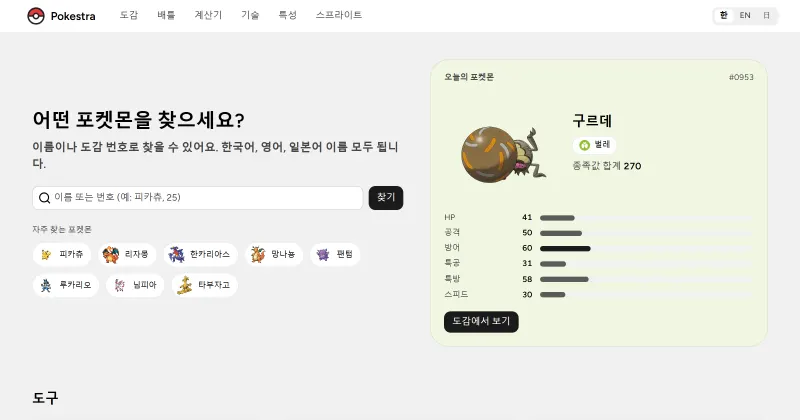
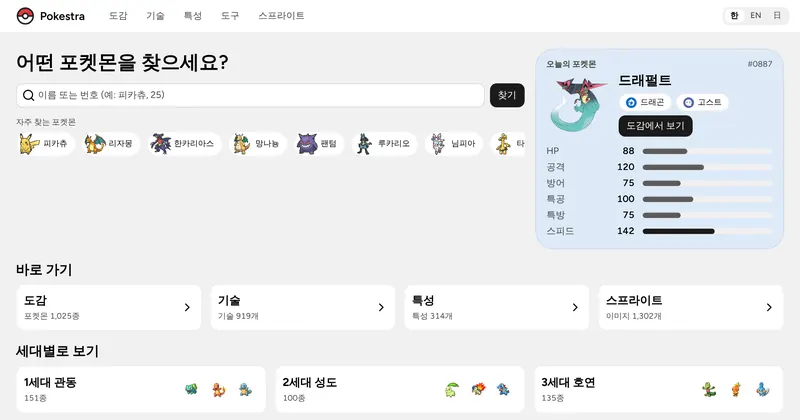
포트폴리오: Pokestra 미리보기를 지금 화면으로, Pokestra와 pokebattle-engine 사이 연결 정리
- Pokestra 대표 이미지(미리보기)를 도감 전용인 지금 화면으로 다시 찍고 WebP 썸네일도 새로 만들었다.
- Pokestra는 더 이상 엔진을 쓰지 않으므로 두 프로젝트의 '연결된 프로젝트' 표시와 서로를 엮는 설명을 지웠다.

Claude-Session: https://claude.ai/code/session_01LWa7NjJJtbQKJ3JC75DQKW

diff --git a/content/projects/pokestra.md b/content/projects/pokestra.md
@@ -4,11 +4,10 @@ kind: personal
 order: 8
 tags: [React, Vite, Tailwind CSS, Astryx, TanStack Query, Zustand, Vitest, 다국어]
 summary: 한·영·일 3개 언어 포켓몬 도감. 포켓몬·기술·특성·도구를 네트워크 기다림 없이 찾고, 세대를 고르면 그 시절 모습과 능력치를 보여 준다.
-highlight: 1,000개 넘는 데이터를 기다림 없이 찾게 하고, 배틀과 계산기는 엔진의 데모로 넘겨 도감 하나에 집중했다.
+highlight: 1,000개 넘는 데이터를 기다림 없이 찾게 하고, 배틀과 계산기는 덜어 내 도감 하나에 집중했다.
 cover: img/projects/pokestra.png
 link: https://github.com/2rangs/Pokestra
 demo: /portfolio/pokestra/
-links: [pokebattle-engine]
 ---
 
 ## 한눈에
@@ -22,7 +21,6 @@ links: [pokebattle-engine]
 | 세대 | 상세 화면에서 세대를 고르면 그 세대의 스프라이트·타입·특성·종족값과 울음소리 |
 | 규모 | 약 9,100줄(TS/TSX, 다국어 문구 포함, 테스트 제외) + 테스트 파일 10개 |
 | 기술 | React, Vite, Tailwind CSS v4, Astryx 디자인 시스템(커스텀 `pokestra` 테마), TanStack Query, Zustand, Vitest |
-| 배틀 | Pokestra에서는 빼고, [pokebattle-engine](/projects/pokebattle-engine/)의 [배틀 데모](https://2rangs.github.io/portfolio/pokebattle-engine/#/battle)로 옮김 |
 
 ## 두 번 만든 프로젝트
 
@@ -35,7 +33,7 @@ links: [pokebattle-engine]
 - 디자인 시스템 위에서 UI 재구성
 - 세대 타임라인, 도구·나무열매, 촘촘한 배치로 도감 자체를 깊게
 
-두 번째 버전에는 한동안 직접 만든 엔진으로 돌리는 배틀 데모와 데미지 계산기도 들어 있었습니다. 지금은 둘 다 엔진 쪽으로 옮기고, Pokestra는 도감만 남겼습니다(아래 "도감에 집중하기로 한 이유").
+두 번째 버전에는 한동안 배틀 데모와 데미지 계산기도 들어 있었습니다. 지금은 둘 다 빼고 도감만 남겼습니다(아래 "도감에 집중하기로 한 이유").
 
 ## 화면 구성
 
@@ -53,14 +51,9 @@ links: [pokebattle-engine]
 
 ## 도감에 집중하기로 한 이유
 
-처음에는 팀 빌더와 배틀 화면을, 그다음에는 엔진이 CPU끼리 배틀을 돌리는 데모와 데미지 계산기를 Pokestra에 넣었습니다. 동작은 했지만 도감 앱 안에 반쯤 만든 게임과 계산기가 들어 있는 모양이었고, 엔진은 도감의 한 메뉴 크기로만 자신을 보여 줄 수 있었습니다.
+처음에는 팀 빌더와 배틀 화면을, 그다음에는 CPU끼리 배틀을 돌리는 데모와 데미지 계산기를 Pokestra에 넣었습니다. 동작은 했지만 도감 앱 안에 반쯤 만든 게임과 계산기가 들어 있는 모양이었습니다.
 
-그래서 역할을 나눴습니다.
-
-- **Pokestra는 도감만 합니다.** 배틀 시뮬레이터, 배틀 엔진 데모, 데미지 계산기를 지우고 엔진 의존성도 뺐습니다. 실능치 패널처럼 엔진을 빌려 쓰던 곳은 로컬 데이터와 순수 함수로 다시 만들었습니다.
-- **배틀과 계산은 엔진이 직접 보여 줍니다.** [pokebattle-engine](/projects/pokebattle-engine/) 문서 사이트의 [배틀 데모](https://2rangs.github.io/portfolio/pokebattle-engine/#/battle)가 그 자리를 맡습니다. 실제 게임처럼 움직이는 스프라이트와 실제 배틀 배경을 쓰는 배틀 화면, 손가락흔들기 모드, 같은 배틀을 다시 보는 리플레이 링크를 지원하며, 지금 마무리하고 있습니다.
-
-덜어 내고 나니 Pokestra는 "찾고 비교하는 화면"에, 엔진은 "배틀을 돌리는 화면"에 각자 집중할 수 있게 됐습니다.
+그래서 배틀 시뮬레이터, 배틀 데모, 데미지 계산기를 모두 지우고 외부 배틀 엔진 의존성도 뺐습니다. 실능치 패널처럼 그 엔진을 빌려 쓰던 곳은 로컬 데이터와 순수 함수로 다시 만들었습니다. 덜어 내고 나니 Pokestra는 "찾고 비교하는 화면" 하나에 집중할 수 있게 됐습니다.
 
 ## 구조
 
@@ -144,9 +137,9 @@ export function norm(s: string) {
 - 입력은 `useDeferredValue`로 처리해, 타이핑은 즉시 반응하고 목록 갱신은 그 뒤를 따라옵니다.
 - 이름 정렬은 언어별 `Intl.Collator`를 하나씩만 만들어 재사용합니다.
 
-### 5. 엔진 없이 계산하는 실능치
+### 5. 로컬 데이터로 계산하는 실능치
 
-실능치 패널(Lv50/Lv100 최소·무보정·최대)은 원래 엔진의 계산 함수를 빌려 썼습니다. 엔진을 빼면서 표준 공식을 순수 함수로 옮기고, 알려진 값으로 단위 테스트를 붙였습니다.
+실능치 패널(Lv50/Lv100 최소·무보정·최대)은 처음에 외부 배틀 엔진의 계산 함수를 빌려 썼습니다. 그 의존성을 빼면서 표준 공식을 순수 함수로 옮기고, 알려진 값으로 단위 테스트를 붙였습니다.
 
 ```ts
 /** HP: ⌊(2B + I + ⌊E/4⌋) · L / 100⌋ + L + 10. 껍질몬(종족값 1)은 항상 1 */
@@ -156,7 +149,7 @@ export function calcHp(base: number, level: number, iv: number, ev: number): num
 }
 ```
 
-최소는 개체값 0·노력치 0·하락 성격, 무보정은 31·0·무보정, 최대는 31·252·상승 성격입니다. 로컬 종족값만으로 계산하니 패널이 엔진 데이터를 기다리지 않습니다.
+최소는 개체값 0·노력치 0·하락 성격, 무보정은 31·0·무보정, 최대는 31·252·상승 성격입니다. 로컬 종족값만으로 계산하니 패널이 다른 데이터를 기다리지 않습니다.
 
 ### 6. 타입 색을 테마 토큰으로
 
@@ -191,7 +184,7 @@ export function defineMessages<const K extends string>(m: {
 
 ## 배포
 
-이 블로그 저장소가 Pokestra의 `main`을 받아 `/portfolio/pokestra/` 경로로 빌드해 함께 게시합니다. 엔진 의존성이 빠지면서 빌드는 Pokestra 저장소만으로 끝납니다.
+이 블로그 저장소가 Pokestra의 `main`을 받아 `/portfolio/pokestra/` 경로로 빌드해 함께 게시합니다. 빌드는 Pokestra 저장소만으로 끝납니다.
 
 ## 배운 점
 
@@ -199,5 +192,5 @@ export function defineMessages<const K extends string>(m: {
 - **상태는 수명에 맞는 곳에.** 언어·필터·공유 링크는 각각 남아야 하는 기간이 달라서 저장 위치도 달라야 했다.
 - **새 정보보다 모아 보여 주기가 차별점이 될 수 있다.** 세대 타임라인은 새 데이터 없이, 이미 받던 응답을 한 화면에 정리하는 것만으로 다른 도감과 구별되는 기능이 됐다.
 - **촘촘함은 간격을 줄이는 게 아니라 배치를 다시 짜는 일이다.** 시선과 손의 동선을 먼저 정하고 나서야 무엇을 줄일지 보였다.
-- **어색한 기능은 다듬기보다 제자리를 찾아 주는 게 답일 때가 있다.** 배틀과 계산기를 엔진의 데모로 옮기자 앱도 엔진도 각자 할 일이 분명해졌다.
+- **어색한 기능은 다듬기보다 덜어 내는 게 답일 때가 있다.** 배틀과 계산기를 빼자 도감이 할 일이 분명해졌다.
 - **사이드 프로젝트는 같은 걸 두 번 만들어 볼 수 있는 곳이다.** 처음 구조의 한계를 직접 겪어 봐야 다음 구조의 이유가 분명해진다.

diff --git a/content/projects/pokebattle-engine.md b/content/projects/pokebattle-engine.md
@@ -22,7 +22,7 @@ demo: /portfolio/pokebattle-engine/
 | 검증 | 테스트 292개, 기술 838 · 특성 310 · 도구 224개를 하나씩 배틀로 돌리는 회귀 점검, 세대별 전체 로그 스냅샷, 불변식 8개 퍼징, 배포 번들 == 원본 시뮬레이터 검사 (모두 CI) |
 | 규모 | 약 18,900줄 (엔진 7,300 · 테스트 1,800 · 스크립트 1,300 · 문서 사이트 2,500 · 배틀 데모 6,100) |
 | 데모 | [배틀 데모](/portfolio/pokebattle-engine/#/battle): 브라우저에서 엔진을 그대로 돌리는 싱글 배틀(팀 편집·CPU 대전·관전·손가락흔들기·리플레이 링크) |
-| 쓰는 곳 | 문서 사이트와 배틀 데모, `npx pokebattle`. 처음에는 [Pokestra](/projects/pokestra/) 안에서 배틀·계산기를 맡았고, 지금은 엔진 쪽 데모로 옮겼다 |
+| 쓰는 곳 | 문서 사이트와 배틀 데모, `npx pokebattle` |
 
 ## 왜 만들었나
 
@@ -96,7 +96,7 @@ function callbacksOf(effect) {
 
 ## 번들: 필요한 것만, 필요할 때
 
-Pokestra에 엔진을 넣자 배틀 화면 청크가 **8.7 MB**였고, 빌드할 때마다 `eval` 경고가 떴습니다. 원인은 Showdown 패키지의 진입점이 모든 세대 데이터와 모든 세대 기술표, 그리고 서버용 스트림 코드(`eval` 포함)까지 한꺼번에 불러오는 구조였기 때문입니다. 앱의 번들러는 이것들을 걸러낼 수 없었습니다.
+웹 앱에 엔진을 넣자 배틀 화면 청크가 **8.7 MB**였고, 빌드할 때마다 `eval` 경고가 떴습니다. 원인은 Showdown 패키지의 진입점이 모든 세대 데이터와 모든 세대 기술표, 그리고 서버용 스트림 코드(`eval` 포함)까지 한꺼번에 불러오는 구조였기 때문입니다. 앱의 번들러는 이것들을 걸러낼 수 없었습니다.
 
 엔진 빌드에 esbuild 플러그인을 넣어 해결했습니다.
 
@@ -140,7 +140,7 @@ log.push = function (...lines: string[]) {
 
 ### 3. 언어와 무관한 메시지 → 언어별 문장
 
-처음에는 한국어 문장을 이벤트마다 직접 만들었고, Pokestra는 같은 구조의 영어·일본어 포매터(약 660줄)를 따로 갖고 있었습니다. 문장을 고칠 때마다 세 곳을 고쳐야 했습니다. 그래서 두 단계로 나눴습니다.
+처음에는 한국어 문장을 이벤트마다 직접 만들었고, 엔진을 쓰는 앱 쪽에 같은 구조의 영어·일본어 포매터(약 660줄)가 따로 있었습니다. 문장을 고칠 때마다 세 곳을 고쳐야 했습니다. 그래서 두 단계로 나눴습니다.
 
 1. **이벤트 → 메시지:** `{ key: 'move.use', params: { pokemon, move } }`처럼 언어와 무관한 메시지로 바꿉니다. UI는 이걸로 이름을 굵게 하거나 아이콘을 붙일 수도 있습니다.
 2. **메시지 → 문장:** 언어별 로케일(문장 틀 + 용어)이 문장으로 바꿉니다. 한국어·영어·일본어가 들어 있고, 새 언어는 로케일 하나를 등록하면 됩니다.
@@ -286,7 +286,7 @@ HP 999 같은 값은 노력치·개체값·성격으로 만들 수 없어서, Sh
 
 ## 배틀 데모: 엔진을 실제 게임처럼 보여 주기
 
-문서 사이트의 [배틀 데모](/portfolio/pokebattle-engine/#/battle)는 배포 번들을 브라우저에서 그대로 돌리는 싱글 배틀입니다. 처음에는 Pokestra 안에 있던 배틀 시뮬레이터였는데, Pokestra를 도감에 집중시키면서 엔진이 자기 능력을 끝까지 보여 줄 수 있는 이쪽으로 옮겼습니다.
+문서 사이트의 [배틀 데모](/portfolio/pokebattle-engine/#/battle)는 배포 번들을 브라우저에서 그대로 돌리는 싱글 배틀입니다. 엔진이 자기 능력을 끝까지 보여 줄 수 있도록 문서 사이트에 두었습니다.
 
 | 항목 | 내용 |
 |---|---|
